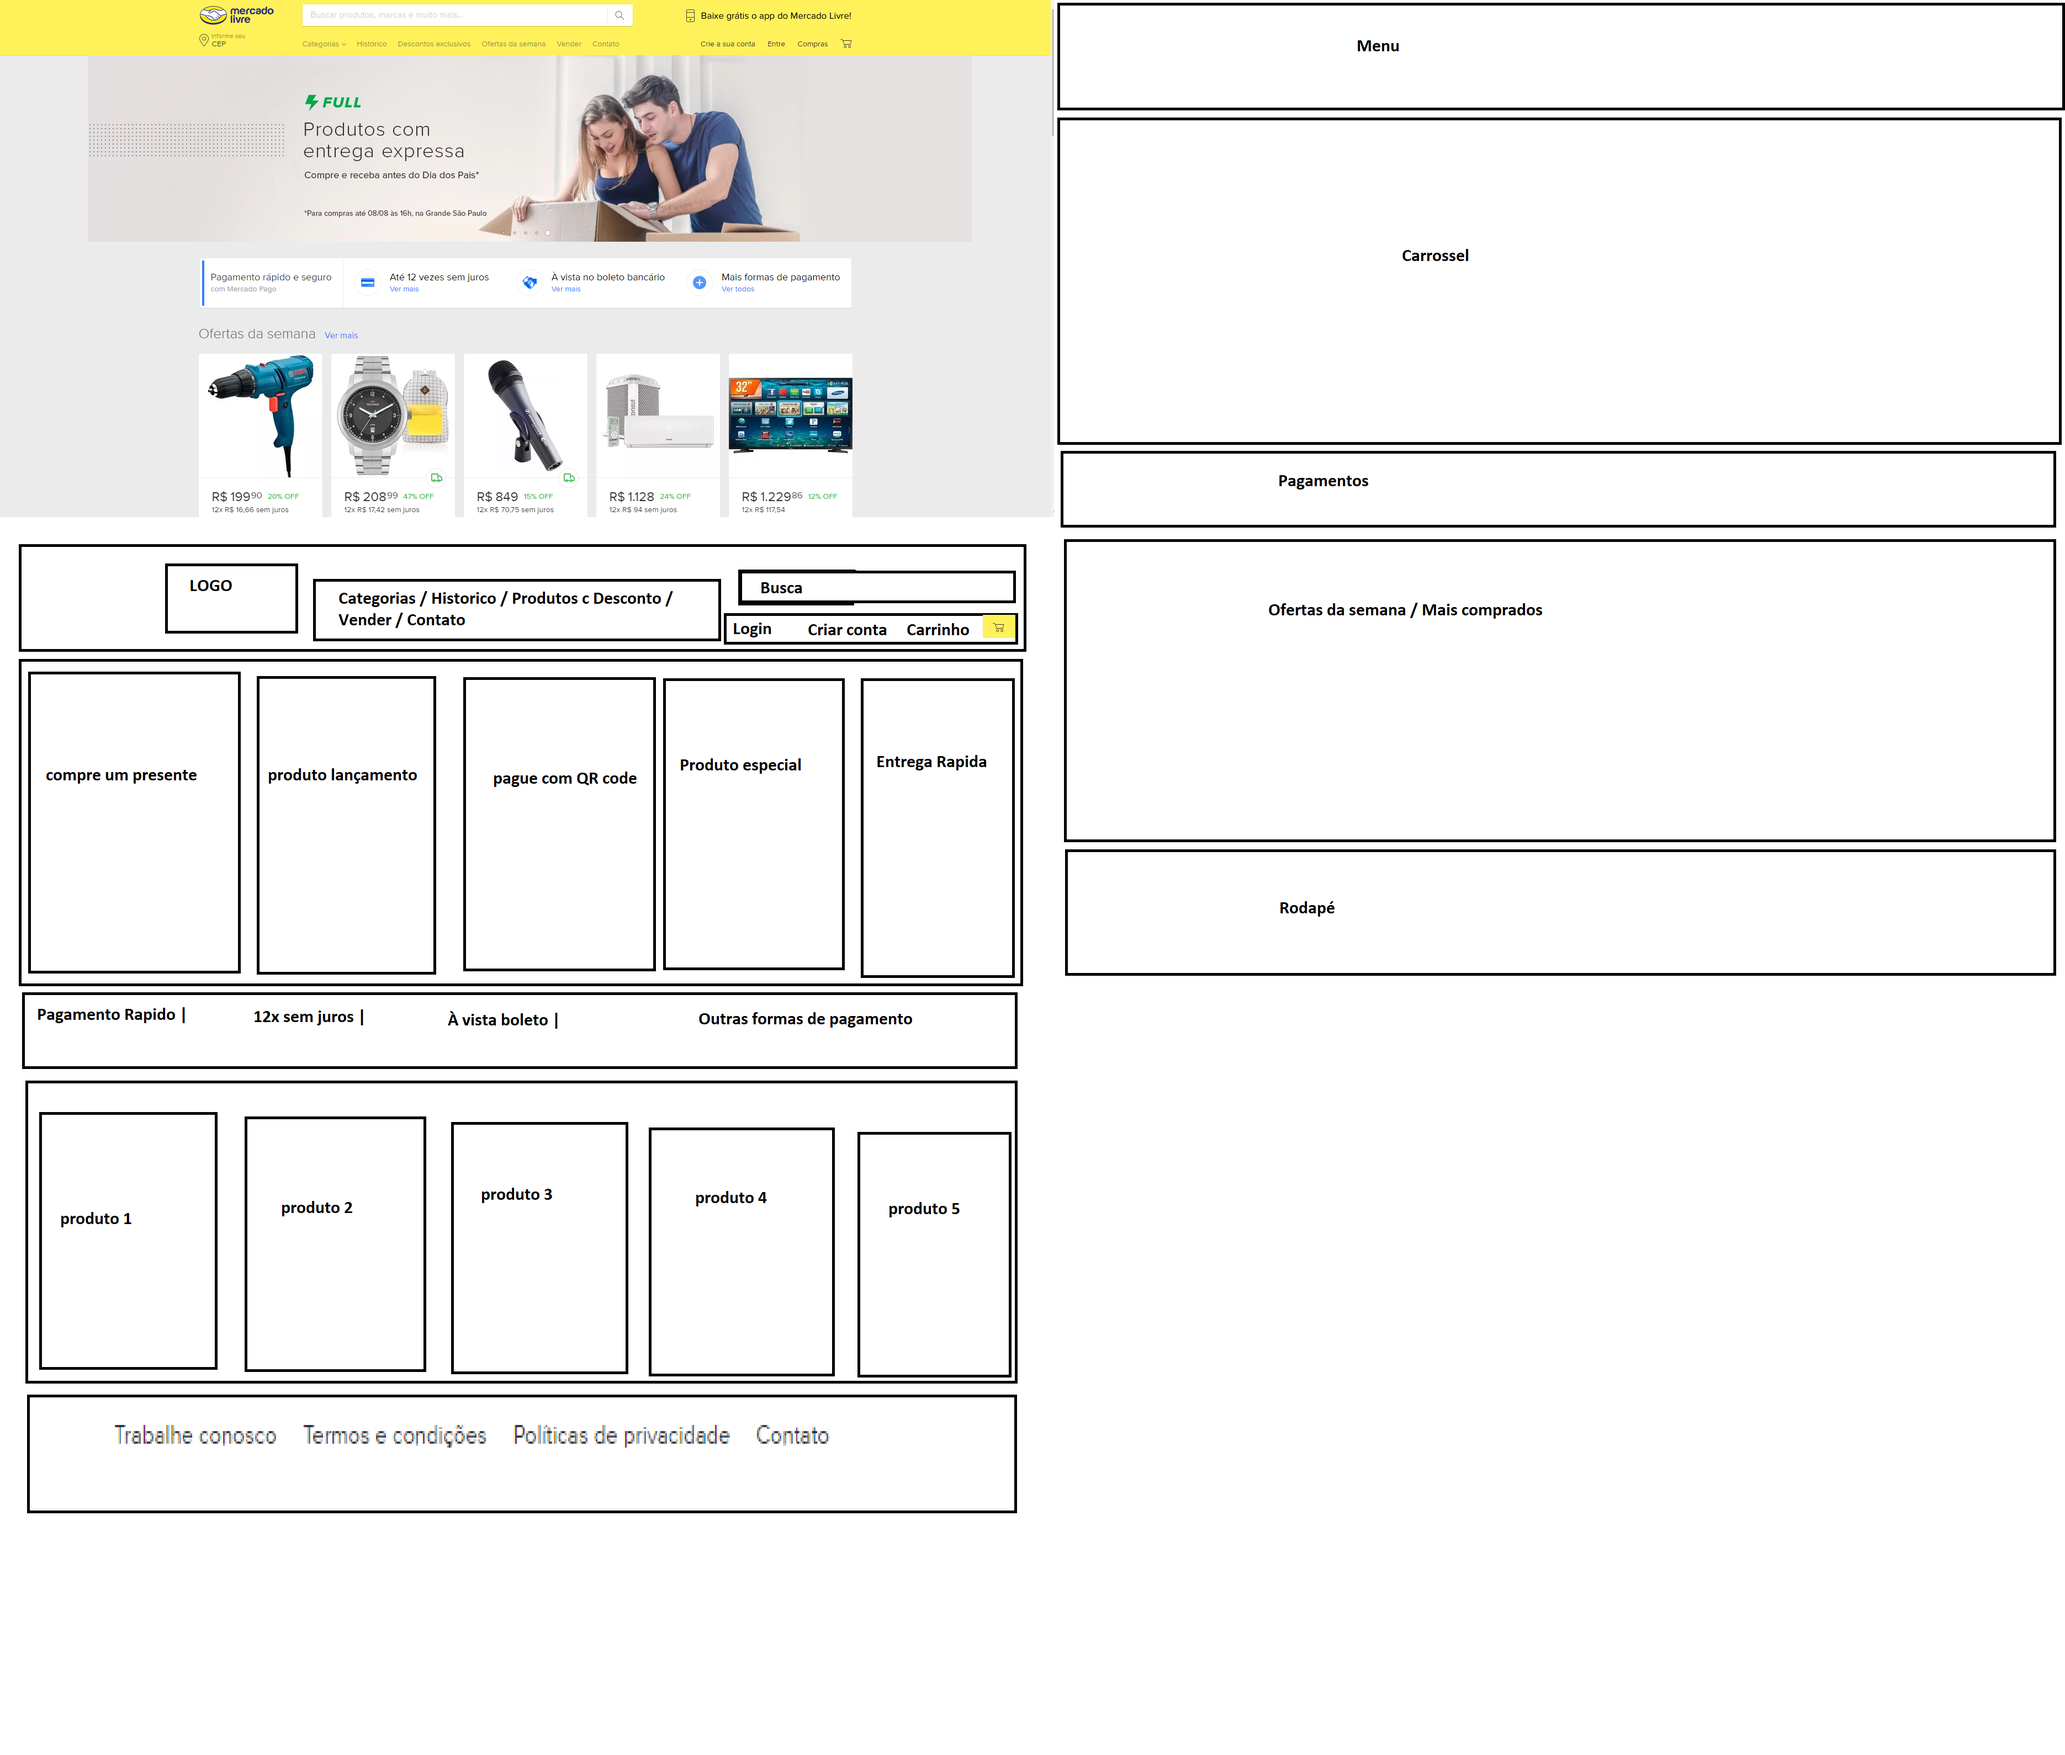
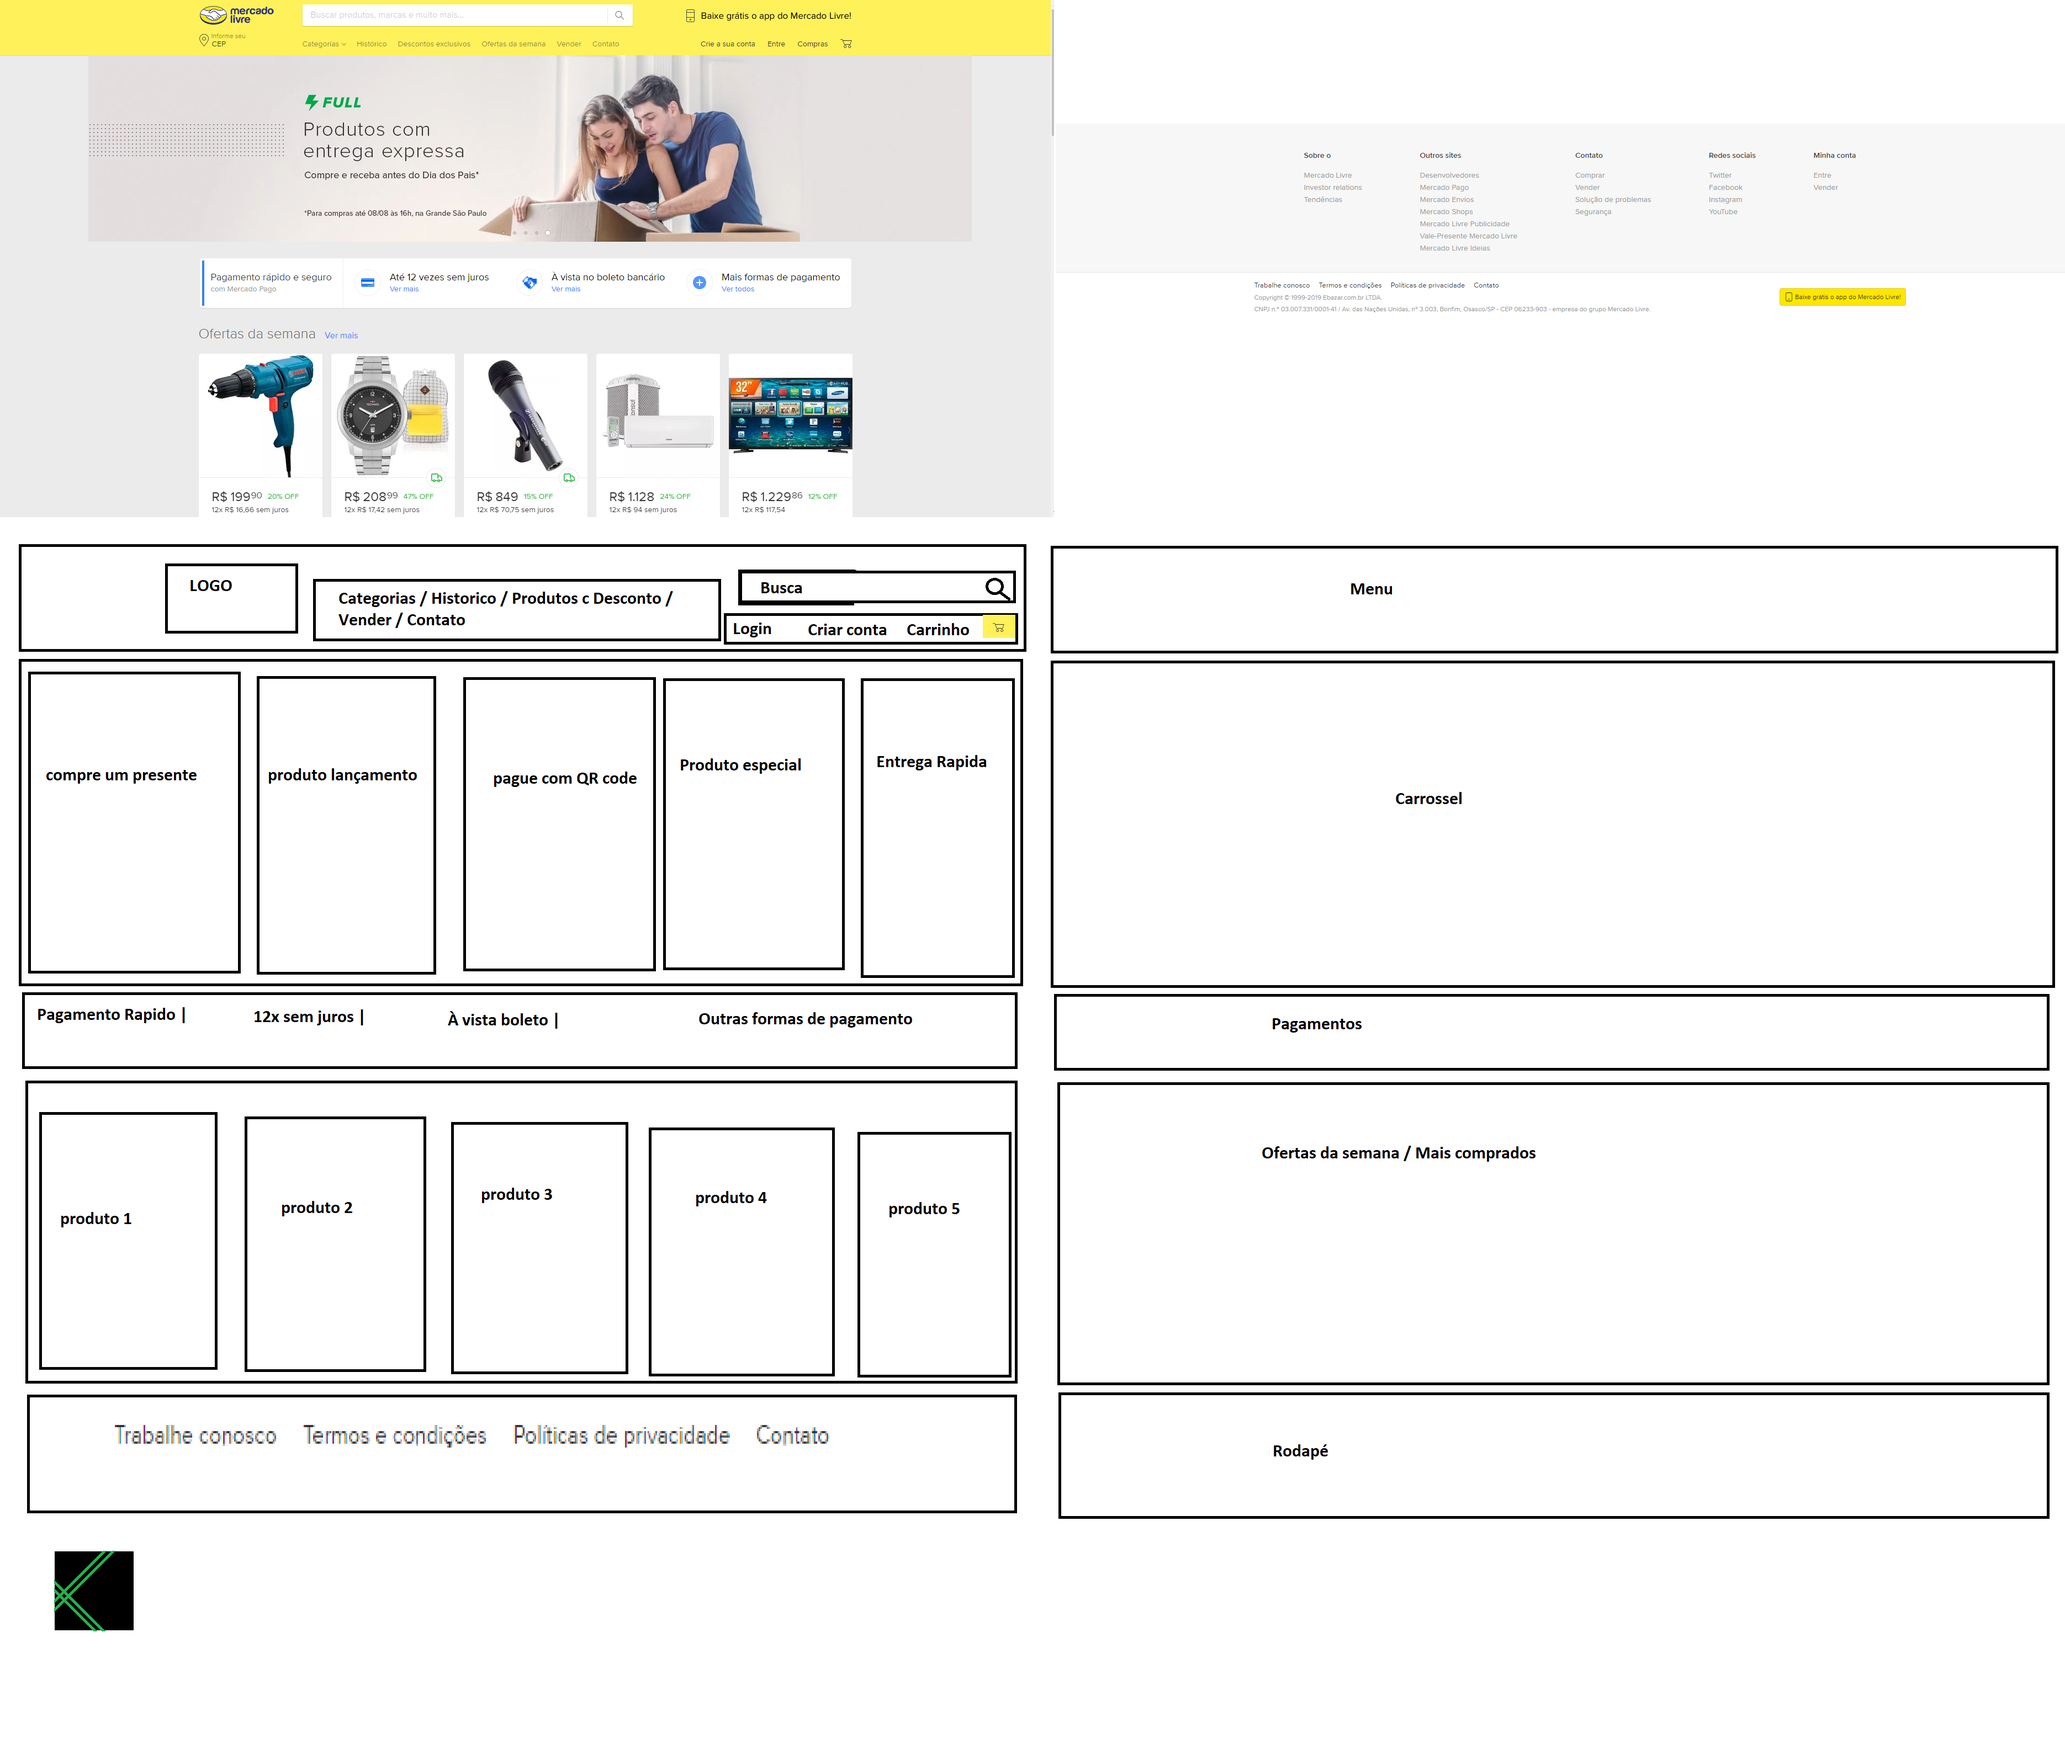
slider e tipos de pagamento adicionados no html

diff --git a/src/sass/_slider.scss b/src/sass/_slider.scss
@@ -1,0 +1,40 @@
+.slider {
+    width: 1300px;
+    margin: 0 auto;
+    background-color: #b4b4b4;
+    height: 500px;
+    position: relative;
+    overflow: hidden;
+    
+    
+    .foto {
+       position: absolute;
+       opacity: 0;
+       animation-name: animacao;
+       animation-duration: 25s;
+       animation-iteration-count: infinite;
+    }
+
+    .foto:nth-child(2){
+        animation-delay: 5s;
+    }
+    .foto:nth-child(3){
+        animation-delay: 10s;
+    }
+    .foto:nth-child(4){
+        animation-delay: 15s;
+    }
+    .foto:nth-child(5){
+        animation-delay: 20s;
+    }
+}
+
+@keyframes animacao {
+    25% {
+        opacity: 1;
+        transform:scale(1.1, 1.1)
+    }
+    50% {
+        opacity: 0;
+    }
+}

diff --git a/src/components/Slider.js b/src/components/Slider.js
@@ -1,0 +1,22 @@
+import React from 'react'
+import red from '../img/slide-vermelho.png'
+import blue from '../img/slide-azul.png'
+import green from '../img/slide-verde.png'
+import orange from '../img/slide-laranja.png'
+import black from '../img/slide-preto.png'
+
+const slider = () => {
+  return (
+    <>
+    <ul className="slider">
+        <img src={red} className="foto" alt="slider01"/>
+        <img src={blue} className="foto" alt="slider02"/>
+        <img src={green} className="foto" alt="slider03"/>
+        <img src={orange} className="foto" alt="slider04"/>
+        <img src={black} className="foto" alt="slider05"/>
+    </ul>
+    </>
+  )
+}
+
+export default slider

diff --git a/src/components/Menu.js b/src/components/Menu.js
@@ -1,4 +1,6 @@
 import React from 'react'
+import lupa from '../img/lupa.png'
+// import cart from '../img/cart.png'
 
 
 
@@ -22,7 +24,7 @@ const menu = () => {
                 <div className="pesquisa-cadastro">
                     <form>
                         <input type="search" id="busca"/>
-                        <img src="#" className="btn" alt="lupa" /> {/* não consegui colocar o link da img */}
+                        <img src={lupa} className="btn" alt="lupa" /> 
                     </form>
                     <ul className="lista cadastro">
                         <li><a className="btn" href="www.google.com">Login</a></li>

diff --git a/src/components/Tipos-pagamento.js b/src/components/Tipos-pagamento.js
@@ -1,0 +1,16 @@
+import React from 'react'
+
+const tiposPagamento = () => {
+  return (
+    <>  
+        <section class="container flex">
+            <div class="item flex-item-1"><h3>Pagamento rápido e seguro</h3></div>
+            <div class="item flex-item-1"><h3>Até 12x sem juros</h3></div>
+            <div class="item flex-item-1"><h3>À vista no boleto</h3></div>
+            <div class="item flex-item-1"><h3>Mais formas de pagamento</h3></div> {/* terá icones ao lado das frases */}
+        </section>
+    </>
+  )
+}
+
+export default tiposPagamento

diff --git a/src/pages/Home.js b/src/pages/Home.js
@@ -1,6 +1,8 @@
 import React from 'react'
 // import Lista from '../components/Lista-menu'
 import Menu from '../components/Menu'
+import Slider from '../components/Slider'
+import Tipos from '../components/Tipos-pagamento'
 // import logo from './logo.svg';
 //<img src={logo} className="App-logo" alt="logo" />
 
@@ -9,6 +11,8 @@ const homepage = () => {
     <>
       <Menu></Menu>
       {/* <Lista></Lista> */}
+      <Slider></Slider>
+      <Tipos></Tipos>
     </>
   )
 }

diff --git a/src/sass/_menu.scss b/src/sass/_menu.scss
@@ -20,13 +20,23 @@
 
     .pesquisa-cadastro {
         margin: 20px 0 0 0;
+        float: right;
     }
 
     a {
         text-decoration: none;
     }
 
-    .pesquisa-cadastro {
-        float: right;
+    form input {
+        padding: 5px 0 0 0;
+    }
+
+    form img {
+        max-width:20px;
+        max-height:50px;
+        width: auto;
+        height: auto;
+        margin-top: 10px;
+        background-color: black;
     }
 }

diff --git a/src/sass/_tipos-pagamento.scss b/src/sass/_tipos-pagamento.scss
@@ -1,0 +1,18 @@
+.flex {
+	display: flex;
+}
+
+.flex-item-1 {
+	flex: 1;
+}
+
+.item {
+	margin: 1px;
+	background: white;
+	text-align: center;
+	font-size: 1.5em;
+}
+
+h3 {
+    font-size: 20px;
+}

diff --git a/src/sass/index.scss b/src/sass/index.scss
@@ -1,3 +1,5 @@
 @import "./reset";
 @import "./padroes";
 @import "./menu";
+@import "./slider";
+@import "./tipos-pagamento";
